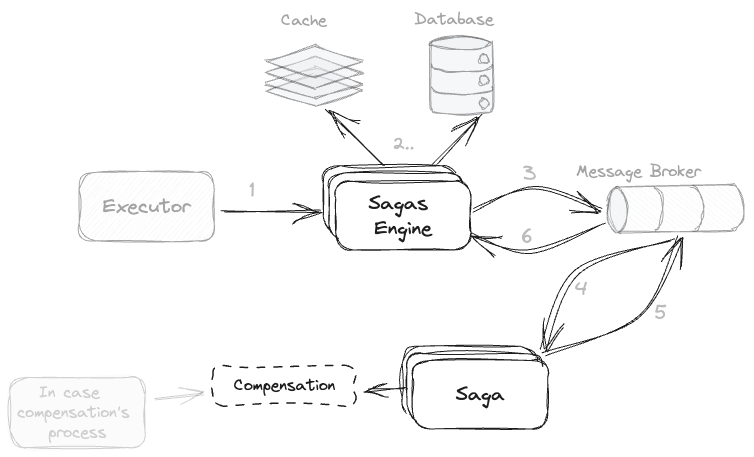
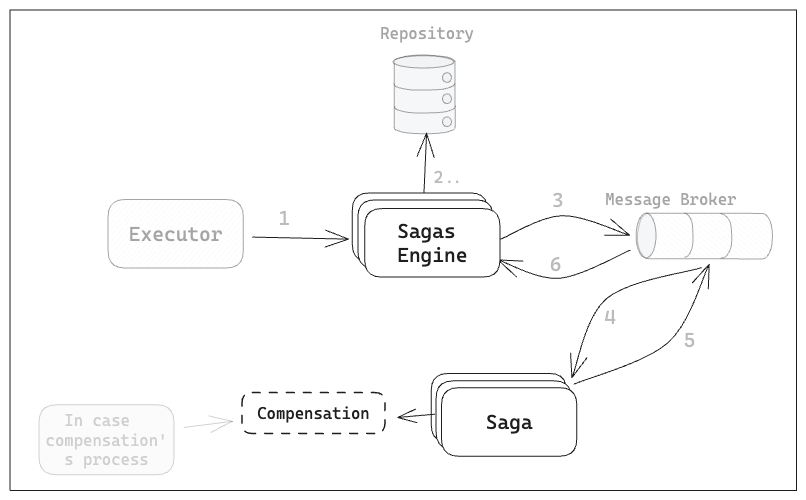
feat: added stage execution via events.

diff --git a/samples/basic-sample/src/main/java/co/orquex/sagas/sample/config/SagasConfig.java b/samples/basic-sample/src/main/java/co/orquex/sagas/sample/config/SagasConfig.java
@@ -3,6 +3,7 @@ package co.orquex.sagas.sample.config;
 import co.orquex.sagas.core.event.EventManager;
 import co.orquex.sagas.core.flow.WorkflowExecutor;
 import co.orquex.sagas.core.flow.WorkflowStageExecutor;
+import co.orquex.sagas.core.stage.DefaultStageEventListener;
 import co.orquex.sagas.core.stage.DefaultStageExecutor;
 import co.orquex.sagas.core.stage.ExecutableStage;
 import co.orquex.sagas.core.stage.InMemoryTaskExecutorRegistry;
@@ -18,6 +19,7 @@ import co.orquex.sagas.domain.registry.Registry;
 import co.orquex.sagas.domain.repository.FlowRepository;
 import co.orquex.sagas.domain.repository.TaskRepository;
 import co.orquex.sagas.domain.repository.TransactionRepository;
+import co.orquex.sagas.domain.stage.StageRequest;
 import co.orquex.sagas.domain.transaction.Checkpoint;
 import co.orquex.sagas.sample.event.CheckpointListener;
 import co.orquex.sagas.task.groovy.GroovyActivity;
@@ -36,18 +38,19 @@ public class SagasConfig {
 
   @Bean
   public WorkflowExecutor workflowExecutor(
-      final ExecutableStage executableStage,
+      final EventManager<StageRequest> stageRequestEventManager,
       final FlowRepository flowRepository,
       final TransactionRepository transactionRepository) {
-    return new WorkflowExecutor(executableStage, flowRepository, transactionRepository);
+    return new WorkflowExecutor(stageRequestEventManager, flowRepository, transactionRepository);
   }
 
   @Bean
   public WorkflowStageExecutor workflowHandler(
-      final ExecutableStage executableStage,
+      final EventManager<StageRequest> stageRequestEventManager,
       final FlowRepository flowRepository,
       final TransactionRepository transactionRepository) {
-    return new WorkflowStageExecutor(executableStage, flowRepository, transactionRepository);
+    return new WorkflowStageExecutor(
+        stageRequestEventManager, flowRepository, transactionRepository);
   }
 
   @Bean
@@ -66,10 +69,17 @@ public class SagasConfig {
   }
 
   @Bean
-  public EventManager<Checkpoint> eventManager(
+  public EventManager<Checkpoint> checkpointEventManager(
       ApplicationEventPublisher applicationEventPublisher) {
     final var eventManager = new EventManager<Checkpoint>();
     eventManager.addListener(new CheckpointListener(applicationEventPublisher));
+    return eventManager;
+  }
+
+  @Bean
+  public EventManager<StageRequest> stageRequestEventManager(ExecutableStage executableStage) {
+    final var eventManager = new EventManager<StageRequest>();
+    eventManager.addListener(new DefaultStageEventListener(executableStage));
     return eventManager;
   }
 

diff --git a/orquex-sagas-core/src/main/java/co/orquex/sagas/core/flow/WorkflowExecutor.java b/orquex-sagas-core/src/main/java/co/orquex/sagas/core/flow/WorkflowExecutor.java
@@ -1,11 +1,12 @@
 package co.orquex.sagas.core.flow;
 
-import co.orquex.sagas.core.stage.ExecutableStage;
+import co.orquex.sagas.core.event.EventManager;
 import co.orquex.sagas.domain.exception.WorkflowException;
 import co.orquex.sagas.domain.execution.ExecutionRequest;
 import co.orquex.sagas.domain.flow.Flow;
 import co.orquex.sagas.domain.repository.FlowRepository;
 import co.orquex.sagas.domain.repository.TransactionRepository;
+import co.orquex.sagas.domain.stage.StageRequest;
 import co.orquex.sagas.domain.transaction.Status;
 import co.orquex.sagas.domain.transaction.Transaction;
 import java.time.Instant;
@@ -15,14 +16,14 @@ import lombok.extern.slf4j.Slf4j;
 @Slf4j
 public class WorkflowExecutor extends AbstractWorkflowExecutor<ExecutionRequest> {
 
-  private final ExecutableStage executableStage;
+  private final EventManager<StageRequest> stageRequestEventManager;
 
   public WorkflowExecutor(
-      ExecutableStage executableStage,
+      EventManager<StageRequest> stageRequestEventManager,
       FlowRepository flowRepository,
       TransactionRepository transactionRepository) {
     super(flowRepository, transactionRepository);
-    this.executableStage = executableStage;
+    this.stageRequestEventManager = stageRequestEventManager;
   }
 
   @Override
@@ -44,7 +45,7 @@ public class WorkflowExecutor extends AbstractWorkflowExecutor<ExecutionRequest>
     // Get initial stage from stages.
     final var stage = getStage(flow, flow.initialStage());
     // Start execution of the workflow.
-    executableStage.execute(getStageRequest(transaction, stage, request));
+    stageRequestEventManager.send(getStageRequest(transaction, stage, request));
   }
 
   private Transaction saveTransaction(Flow flow, ExecutionRequest request) {

diff --git a/orquex-sagas-core/src/test/java/co/orquex/sagas/core/executor/WorkflowExecutorTest.java b/orquex-sagas-core/src/test/java/co/orquex/sagas/core/executor/WorkflowExecutorTest.java
@@ -5,7 +5,9 @@ import static org.assertj.core.api.Assertions.assertThatThrownBy;
 import static org.mockito.ArgumentMatchers.anyString;
 import static org.mockito.Mockito.*;
 
+import co.orquex.sagas.core.event.EventManager;
 import co.orquex.sagas.core.flow.WorkflowExecutor;
+import co.orquex.sagas.core.stage.DefaultStageEventListener;
 import co.orquex.sagas.core.stage.ExecutableStage;
 import co.orquex.sagas.domain.exception.WorkflowException;
 import co.orquex.sagas.domain.execution.ExecutionRequest;
@@ -33,7 +35,10 @@ class WorkflowExecutorTest {
 
   @BeforeEach
   void setUp() {
-    executor = new WorkflowExecutor(executableStage, flowRepository, transactionRepository);
+    // Create the event manager to send stages
+    final var stageRequestEventManager = new EventManager<StageRequest>();
+    stageRequestEventManager.addListener(new DefaultStageEventListener(executableStage));
+    executor = new WorkflowExecutor(stageRequestEventManager, flowRepository, transactionRepository);
     simpleFlow = readValue("flow-simple.json", Flow.class);
   }
 
@@ -76,6 +81,6 @@ class WorkflowExecutorTest {
     when(transactionRepository.save(any(Transaction.class)))
         .thenReturn(Transaction.builder().transactionId(UUID.randomUUID().toString()).build());
     executor.execute(request);
-    verify(executableStage).execute(any(StageRequest.class));
+    verify(executableStage, timeout(100)).execute(any(StageRequest.class));
   }
 }

diff --git a/orquex-sagas-core/src/main/java/co/orquex/sagas/core/flow/WorkflowStageExecutor.java b/orquex-sagas-core/src/main/java/co/orquex/sagas/core/flow/WorkflowStageExecutor.java
@@ -2,7 +2,7 @@ package co.orquex.sagas.core.flow;
 
 import static java.util.Objects.isNull;
 
-import co.orquex.sagas.core.stage.ExecutableStage;
+import co.orquex.sagas.core.event.EventManager;
 import co.orquex.sagas.domain.exception.WorkflowException;
 import co.orquex.sagas.domain.execution.ExecutionRequest;
 import co.orquex.sagas.domain.repository.FlowRepository;
@@ -14,14 +14,14 @@ import lombok.extern.slf4j.Slf4j;
 @Slf4j
 public class WorkflowStageExecutor extends AbstractWorkflowExecutor<Checkpoint> {
 
-  private final ExecutableStage executableStage;
+  private final EventManager<StageRequest> stageRequestEventManager;
 
   public WorkflowStageExecutor(
-      ExecutableStage executableStage,
+      EventManager<StageRequest> stageRequestEventManager,
       FlowRepository flowRepository,
       TransactionRepository transactionRepository) {
     super(flowRepository, transactionRepository);
-    this.executableStage = executableStage;
+    this.stageRequestEventManager = stageRequestEventManager;
   }
 
   @Override
@@ -63,6 +63,6 @@ public class WorkflowStageExecutor extends AbstractWorkflowExecutor<Checkpoint> 
             .build();
     log.debug("Executing next stage '{}'", stage.getName());
     // Continue execution of the workflow.
-    executableStage.execute(stageRequest);
+    stageRequestEventManager.send(stageRequest);
   }
 }

diff --git a/orquex-sagas-core/src/main/java/co/orquex/sagas/core/stage/DefaultStageEventListener.java b/orquex-sagas-core/src/main/java/co/orquex/sagas/core/stage/DefaultStageEventListener.java
@@ -1,0 +1,35 @@
+package co.orquex.sagas.core.stage;
+
+import static co.orquex.sagas.domain.utils.Preconditions.checkArgumentNotNull;
+import static java.util.Objects.isNull;
+
+import co.orquex.sagas.core.event.EventListener;
+import co.orquex.sagas.core.event.impl.EventMessage;
+import co.orquex.sagas.domain.stage.StageRequest;
+import lombok.extern.slf4j.Slf4j;
+
+@Slf4j
+public class DefaultStageEventListener implements EventListener<StageRequest> {
+
+  private final ExecutableStage executableStage;
+
+  public DefaultStageEventListener(ExecutableStage executableStage) {
+    this.executableStage =
+        checkArgumentNotNull(executableStage, "ExecutableStage instance cannot be null");
+  }
+
+  @Override
+  public void onMessage(EventMessage<StageRequest> message) {
+    final var request = message.getMessage();
+    if (isNull(request)) {
+      log.warn("Ignored a null stage request received");
+      return;
+    }
+    executableStage.execute(message.getMessage());
+  }
+
+  @Override
+  public void onError(EventMessage<StageRequest> message) {
+    log.error("Receiving stage request error: {}", message.getError());
+  }
+}

diff --git a/orquex-sagas-core/src/main/java/co/orquex/sagas/core/stage/strategy/impl/decorator/EventHandlerProcessingStrategy.java b/orquex-sagas-core/src/main/java/co/orquex/sagas/core/stage/strategy/impl/decorator/EventHandlerProcessingStrategy.java
@@ -29,19 +29,13 @@ public class EventHandlerProcessingStrategy<S extends Stage> implements StagePro
             .request(request.payload())
             .incoming(stage);
     try {
-      eventManager.send(
-          EventMessage.<Checkpoint>builder()
-              .message(checkpointBuilder.status(Status.IN_PROGRESS).build())
-              .build());
+      eventManager.send(checkpointBuilder.status(Status.IN_PROGRESS).build());
       final var response = strategy.process(transactionId, stage, request);
       eventManager.send(
-          EventMessage.<Checkpoint>builder()
-              .message(
-                  checkpointBuilder
-                      .status(Status.COMPLETED)
-                      .response(response.payload())
-                      .outgoing(response.outgoing())
-                      .build())
+          checkpointBuilder
+              .status(Status.COMPLETED)
+              .response(response.payload())
+              .outgoing(response.outgoing())
               .build());
       return response;
     } catch (WorkflowException e) {

diff --git a/orquex-sagas-core/src/main/java/co/orquex/sagas/core/event/EventManager.java b/orquex-sagas-core/src/main/java/co/orquex/sagas/core/event/EventManager.java
@@ -31,4 +31,9 @@ public final class EventManager<T> {
   public void send(EventMessage<T> message) {
     this.eventLoop.push(message);
   }
+
+  public void send(T message) {
+    final var eventMessage = EventMessage.<T>builder().message(message).build();
+    this.send(eventMessage);
+  }
 }

diff --git a/samples/basic-sample/README.md b/samples/basic-sample/README.md
@@ -1,0 +1,41 @@
+# Basic Example
+
+This example shows how to configure the sagas engine using the default configuration, and runs the below workflow.
+
+![img.png](./docs/img.png)
+
+## Requirements
+
+- Java 21
+- Maven >=3.8.x
+
+## Installation
+
+```shell
+mvn clean package
+```
+
+## Execution
+
+Start the server that contains the test.
+
+```shell
+mvn spring-boot:run
+```
+
+Then call the service that starts and executes the workflow.
+
+```shell
+curl --location 'http://localhost:8080/api/name/customizer' \
+--header 'Content-Type: application/json' \
+--data '{
+  "flowId": "basic-sample-flow",
+  "correlationId": "3a27e108-d1d6-4ba6-8b20-c56da9a4808a",
+  "metadata": null,
+  "payload": {
+    "user": {
+      "id": 9
+    }
+  }
+}'
+```

diff --git a/README.md b/README.md
@@ -1,5 +1,10 @@
 # Sagas Framework
 
+## Requirements
+
+- Java 21
+- Maven >=3.8.x
+
 ## Installation
 
 ```shell
@@ -67,7 +72,9 @@ In the choreography scenario, the flow execution is distributed using a message 
 
 > This implementation uses the Saga Engine as a coordinator, to re-use the different Stages in multiple Flows.
 
-![sequence-orchestration](./docs/assets/sequence-choreography.png)
+![sequence-orchestration](./docs/assets/sequence-choreography-1.png)
+![sequence-orchestration](./docs/assets/sequence-choreography-2.png)
+![sequence-orchestration](./docs/assets/sequence-choreography-3.png)
 
 ### Flow Domain
 
